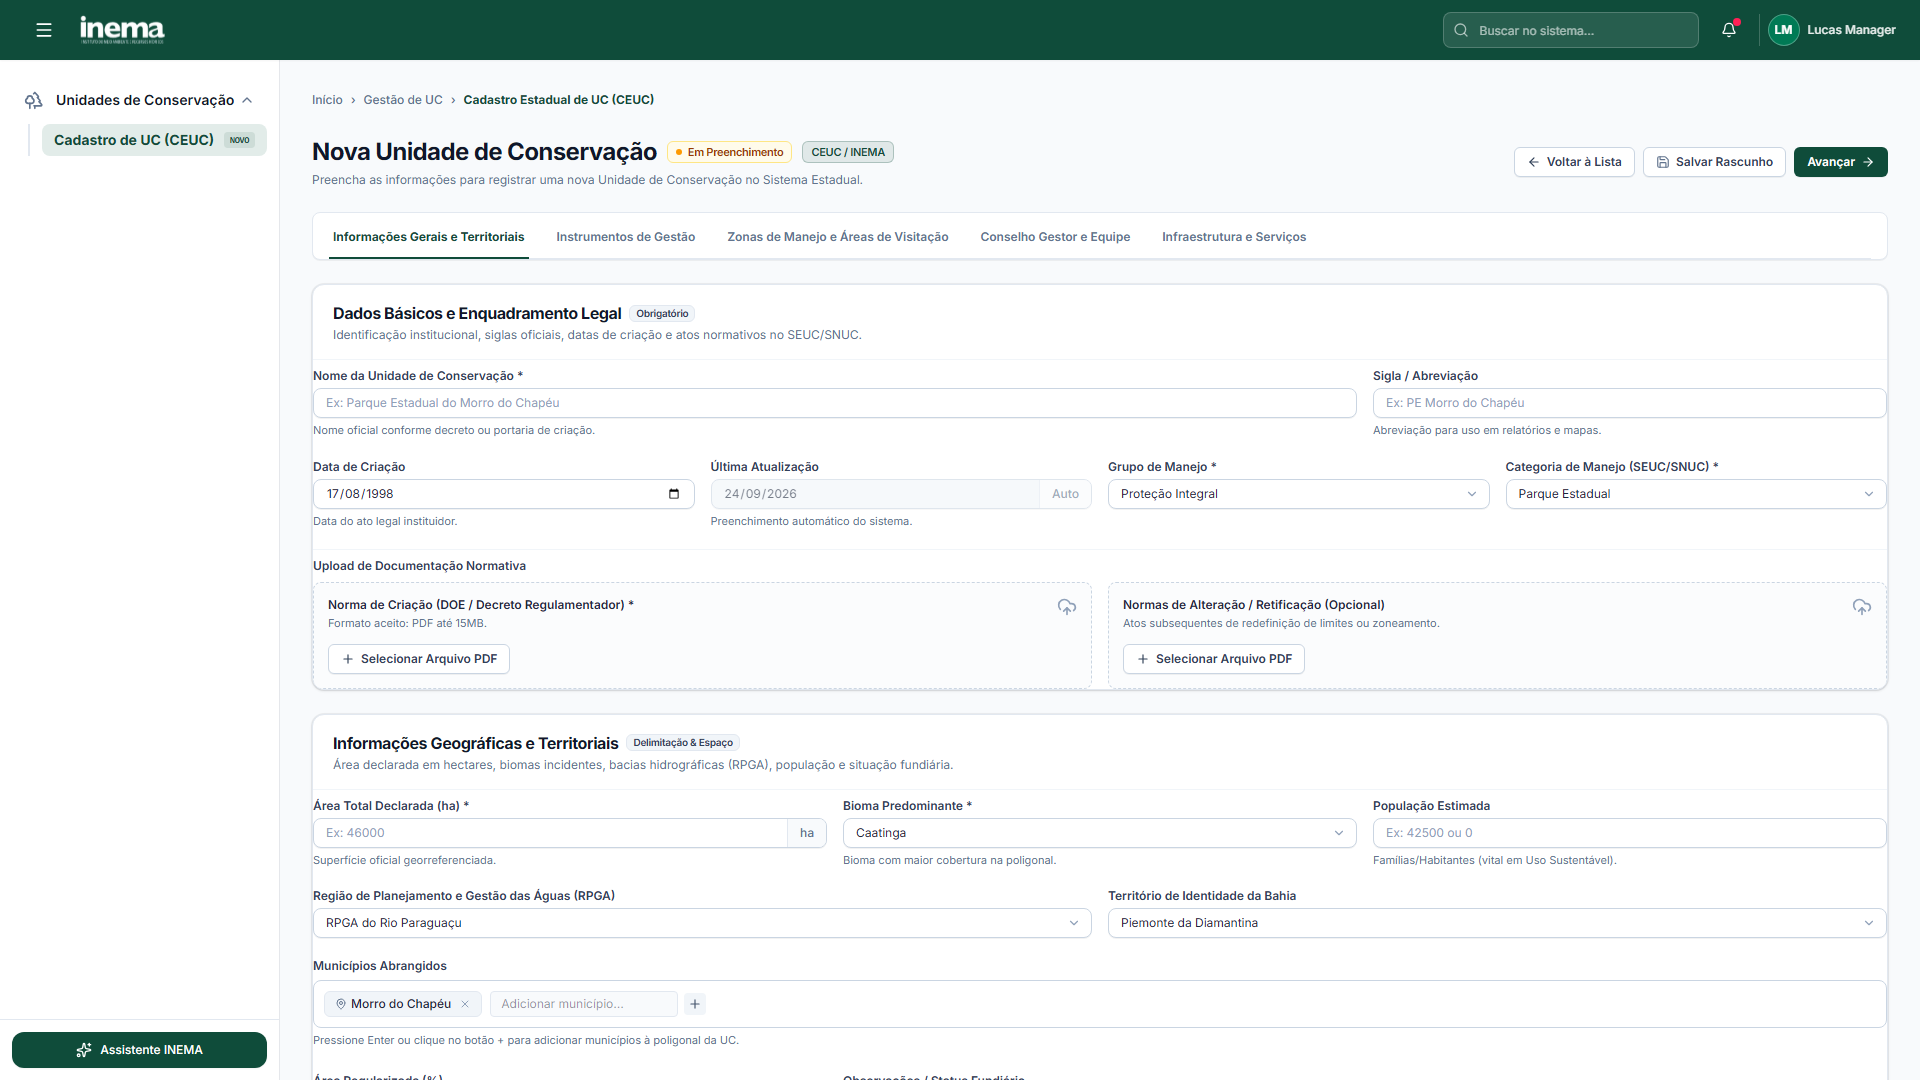
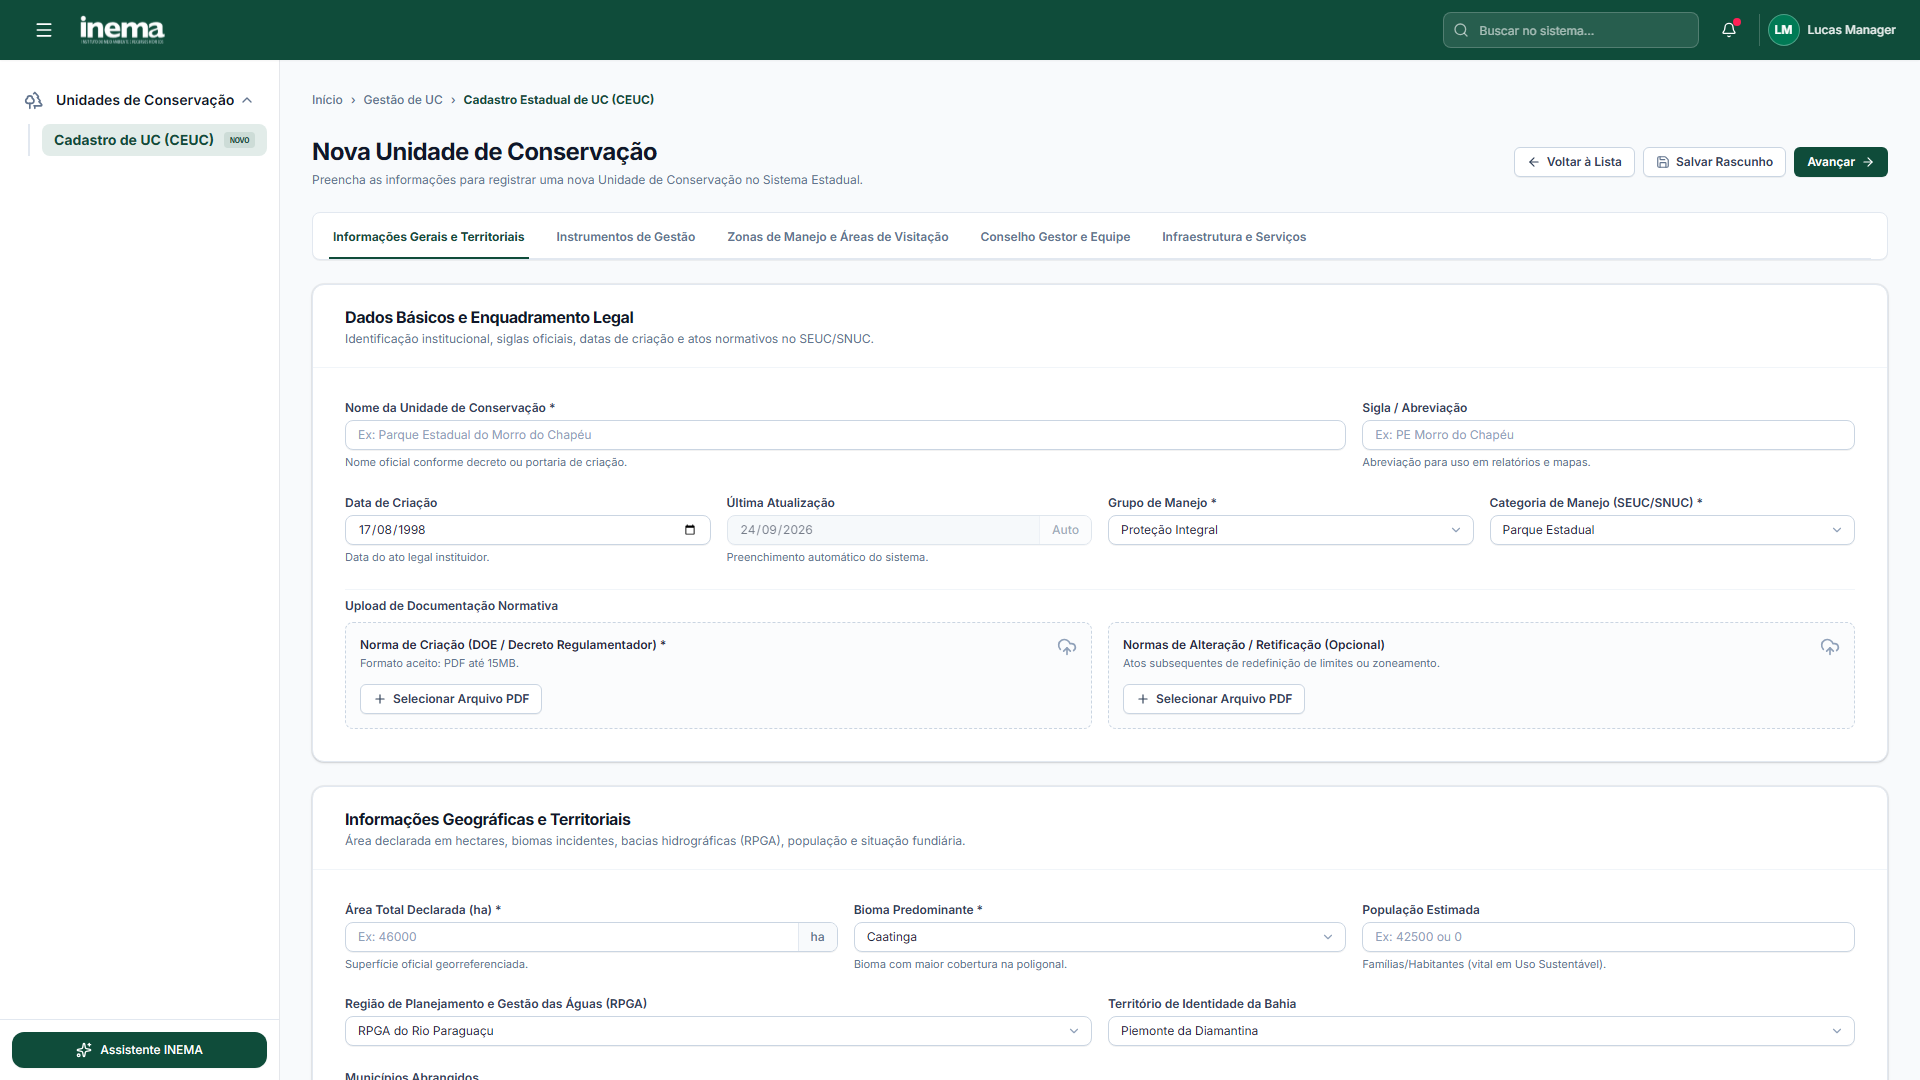
fix(ceuc): envelopar secoes com GlaCardContent (p-6/p-8), aplicar rounded-full aos badges e remover pills dos titulos

diff --git a/src/pages/uc/CeucFormularioPage.tsx b/src/pages/uc/CeucFormularioPage.tsx
@@ -17,6 +17,7 @@ import {
   GlaCardHeader,
   GlaCardTitle,
   GlaCardDescription,
+  GlaCardContent,
   GlaButton,
   GlaBadge,
   GlaInput,
@@ -231,28 +232,9 @@ export const CeucFormularioPage: React.FC<CeucFormularioPageProps> = ({
       {/* 1. CABEÇALHO DO FORMULÁRIO (SEM BREADCRUMB DUPLICADO + AÇÕES DIRETAS NO TOPO) */}
       <div className="flex flex-col sm:flex-row sm:items-center sm:justify-between gap-3 pt-1">
         <div>
-          <div className="flex flex-wrap items-center gap-2.5">
-            <h1 className="text-xl sm:text-2xl font-bold text-slate-900 dark:text-white tracking-tight">
-              {isEdicao ? uc.nome : 'Nova Unidade de Conservação'}
-            </h1>
-            {isEdicao ? (
-              <>
-                <GlaBadge variant="neutral" size="sm" mono>
-                  {uc.codigoCeu}
-                </GlaBadge>
-                <GlaBadge variant="success" size="sm" dot>
-                  Cadastrada
-                </GlaBadge>
-              </>
-            ) : (
-              <GlaBadge variant="warning" size="sm" dot>
-                Em Preenchimento
-              </GlaBadge>
-            )}
-            <GlaBadge variant="primary" size="sm">
-              CEUC / INEMA
-            </GlaBadge>
-          </div>
+          <h1 className="text-xl sm:text-2xl font-bold text-slate-900 dark:text-white tracking-tight">
+            {isEdicao ? uc.nome : 'Nova Unidade de Conservação'}
+          </h1>
           <p className="text-xs text-slate-500 dark:text-slate-400 mt-1">
             {isEdicao
               ? 'Edição dos parâmetros cadastrais, espaciais e normativos da Unidade de Conservação.'
@@ -305,20 +287,15 @@ export const CeucFormularioPage: React.FC<CeucFormularioPageProps> = ({
           {/* SEÇÃO 1: DADOS BÁSICOS E ENQUADRAMENTO LEGAL */}
           <GlaCard className="border-slate-200 dark:border-slate-800 shadow-sm">
             <GlaCardHeader>
-              <div className="flex items-center gap-2">
-                <GlaCardTitle className="text-base font-bold text-slate-900 dark:text-white">
-                  Dados Básicos e Enquadramento Legal
-                </GlaCardTitle>
-                <GlaBadge variant="neutral" size="xs">
-                  Obrigatório
-                </GlaBadge>
-              </div>
+              <GlaCardTitle className="text-base font-bold text-slate-900 dark:text-white">
+                Dados Básicos e Enquadramento Legal
+              </GlaCardTitle>
               <GlaCardDescription>
                 Identificação institucional, siglas oficiais, datas de criação e atos normativos no SEUC/SNUC.
               </GlaCardDescription>
             </GlaCardHeader>
 
-            <div className="space-y-5 pt-2">
+            <GlaCardContent className="space-y-6">
               <div className="grid grid-cols-1 md:grid-cols-3 gap-4">
                 {/* Nome da UC */}
                 <div className="md:col-span-2">
@@ -539,26 +516,21 @@ export const CeucFormularioPage: React.FC<CeucFormularioPageProps> = ({
                   </div>
                 </div>
               </div>
-            </div>
+            </GlaCardContent>
           </GlaCard>
 
           {/* SEÇÃO 2: INFORMAÇÕES GEOGRÁFICAS E TERRITORIAIS */}
           <GlaCard className="border-slate-200 dark:border-slate-800 shadow-sm">
             <GlaCardHeader>
-              <div className="flex items-center gap-2">
-                <GlaCardTitle className="text-base font-bold text-slate-900 dark:text-white">
-                  Informações Geográficas e Territoriais
-                </GlaCardTitle>
-                <GlaBadge variant="neutral" size="xs">
-                  Delimitação & Espaço
-                </GlaBadge>
-              </div>
+              <GlaCardTitle className="text-base font-bold text-slate-900 dark:text-white">
+                Informações Geográficas e Territoriais
+              </GlaCardTitle>
               <GlaCardDescription>
                 Área declarada em hectares, biomas incidentes, bacias hidrográficas (RPGA), população e situação fundiária.
               </GlaCardDescription>
             </GlaCardHeader>
 
-            <div className="space-y-5 pt-2">
+            <GlaCardContent className="space-y-6">
               <div className="grid grid-cols-1 sm:grid-cols-2 lg:grid-cols-3 gap-4">
                 {/* Área Total Declarada */}
                 <div>
@@ -649,7 +621,7 @@ export const CeucFormularioPage: React.FC<CeucFormularioPageProps> = ({
                   {municipios.map((mun) => (
                     <span
                       key={mun}
-                      className="inline-flex items-center gap-1 px-2.5 py-1 rounded-md text-xs font-medium bg-slate-100 dark:bg-slate-700 text-slate-800 dark:text-slate-200 border border-slate-200 dark:border-slate-600 max-w-full truncate"
+                      className="inline-flex items-center gap-1 px-3 py-1 rounded-full text-xs font-medium bg-slate-100 dark:bg-slate-700 text-slate-800 dark:text-slate-200 border border-slate-200 dark:border-slate-600 max-w-full truncate"
                     >
                       <MapPin className="w-3 h-3 text-slate-500 shrink-0" />
                       <span className="truncate">{mun}</span>
@@ -677,12 +649,12 @@ export const CeucFormularioPage: React.FC<CeucFormularioPageProps> = ({
                           handleAdicionarMunicipio();
                         }
                       }}
-                      className="text-xs px-2.5 py-1 rounded border border-slate-200 dark:border-slate-700 bg-slate-50 dark:bg-slate-900 focus:outline-none focus:ring-1 focus:ring-[#0F4C3A]"
+                      className="text-xs px-2.5 py-1 rounded-full border border-slate-200 dark:border-slate-700 bg-slate-50 dark:bg-slate-900 focus:outline-none focus:ring-1 focus:ring-[#0F4C3A]"
                     />
                     <button
                       type="button"
                       onClick={handleAdicionarMunicipio}
-                      className="p-1 rounded bg-slate-100 dark:bg-slate-700 text-slate-600 hover:text-slate-900 cursor-pointer"
+                      className="p-1 rounded-full bg-slate-100 dark:bg-slate-700 text-slate-600 hover:text-slate-900 cursor-pointer"
                       title="Adicionar"
                     >
                       <Plus className="w-3.5 h-3.5" />
@@ -717,7 +689,7 @@ export const CeucFormularioPage: React.FC<CeucFormularioPageProps> = ({
                   />
                 </div>
               </div>
-            </div>
+            </GlaCardContent>
           </GlaCard>
         </div>
       ) : (

diff --git a/src/pages/uc/CeucConsultaPage.tsx b/src/pages/uc/CeucConsultaPage.tsx
@@ -216,14 +216,9 @@ export const CeucConsultaPage: React.FC = () => {
       <div className="space-y-1">
         <div className="flex flex-col sm:flex-row sm:items-center sm:justify-between gap-3">
           <div>
-            <div className="flex items-center gap-2.5">
-              <h1 className="text-xl sm:text-2xl font-bold text-slate-900 tracking-tight">
-                Cadastro Estadual de Unidades de Conservação
-              </h1>
-              <GlaBadge variant="primary" size="sm">
-                CEUC / INEMA
-              </GlaBadge>
-            </div>
+            <h1 className="text-xl sm:text-2xl font-bold text-slate-900 tracking-tight">
+              Cadastro Estadual de Unidades de Conservação
+            </h1>
             <p className="text-xs text-slate-500 mt-1">
               Registro centralizado e base cadastral unificada de parâmetros para os módulos integrados do SEIA.
             </p>

diff --git a/src/components/gla/primitives/GlaBadge.tsx b/src/components/gla/primitives/GlaBadge.tsx
@@ -20,7 +20,7 @@ export const GlaBadge: React.FC<GlaBadgeProps> = ({
   children,
   ...props
 }) => {
-  const baseStyles = 'inline-flex items-center font-semibold rounded-md border tracking-tight select-none';
+  const baseStyles = 'inline-flex items-center font-semibold rounded-full border tracking-tight select-none';
 
   const variants: Record<GlaBadgeVariant, string> = {
     primary: 'bg-[#0F4C3A]/10 text-[#0F4C3A] border-[#0F4C3A]/25 dark:bg-[#0F4C3A]/20 dark:text-emerald-300 dark:border-[#0F4C3A]/40',
@@ -39,9 +39,9 @@ export const GlaBadge: React.FC<GlaBadgeProps> = ({
   };
 
   const sizes: Record<GlaBadgeSize, string> = {
-    xs: 'text-[10px] px-1.5 py-0.2 gap-1',
-    sm: 'text-[11px] px-2 py-0.5 gap-1.5',
-    md: 'text-xs px-2.5 py-1 gap-1.5',
+    xs: 'text-[10px] px-2 py-0.5 gap-1',
+    sm: 'text-[11px] px-2.5 py-0.5 gap-1.5',
+    md: 'text-xs px-3 py-1 gap-1.5',
   };
 
   return (

diff --git a/src/components/gla/layout/GlaCard.tsx b/src/components/gla/layout/GlaCard.tsx
@@ -37,7 +37,7 @@ export const GlaCardHeader: React.FC<GlaCardHeaderProps> = ({
   return (
     <div
       className={cn(
-        'px-5 py-4 border-b border-slate-100 dark:border-slate-800/80 flex flex-col sm:flex-row sm:items-center justify-between gap-3',
+        'px-6 py-5 sm:px-8 border-b border-slate-100 dark:border-slate-800/80 flex flex-col sm:flex-row sm:items-center justify-between gap-3',
         className
       )}
       {...props}
@@ -81,7 +81,7 @@ export const GlaCardContent: React.FC<React.HTMLAttributes<HTMLDivElement>> = ({
   ...props
 }) => {
   return (
-    <div className={cn('p-5', className)} {...props}>
+    <div className={cn('p-6 sm:p-8', className)} {...props}>
       {children}
     </div>
   );
